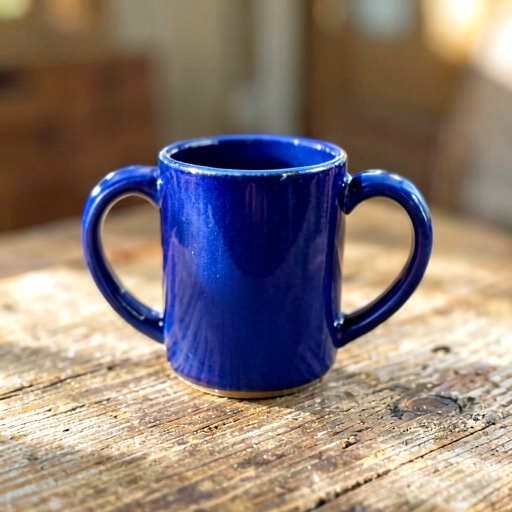
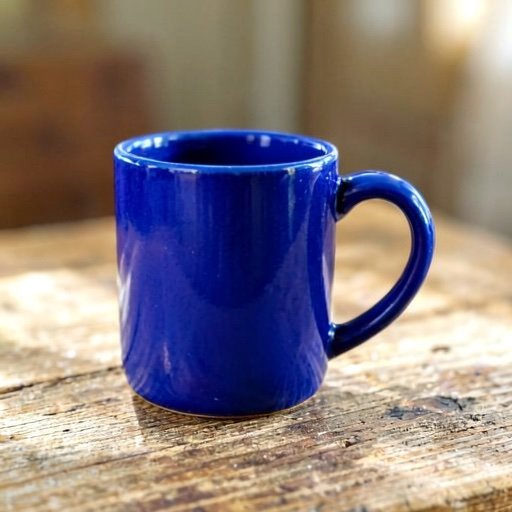
Swap README I2I mug pair for a single-handle version.

diff --git a/README.md b/README.md
@@ -41,7 +41,7 @@ Color/style edits keep composition; the source’s quirks survive the edit — t
 | Source (T2I) | `i2i --strength 0.8` |
 |:--:|:--:|
 | <img src="Docs/assets/readme/i2i-mug-before.jpg" width="320"> | <img src="Docs/assets/readme/i2i-mug-after.jpg" width="320"> |
-| <sub>*“A cobalt blue ceramic mug on a rustic wooden table”*</sub> | <sub>*“the same ceramic mug but emerald green …”* — seed 42</sub> |
+| <sub>*“A cobalt blue ceramic mug with a single curved handle … morning light”* — seed 42</sub> | <sub>*“the same ceramic mug but emerald green glaze, keeping the same bright morning light …”* — seed 7</sub> |
 
 ### Identity-preserving edit (`--identity`)
 
